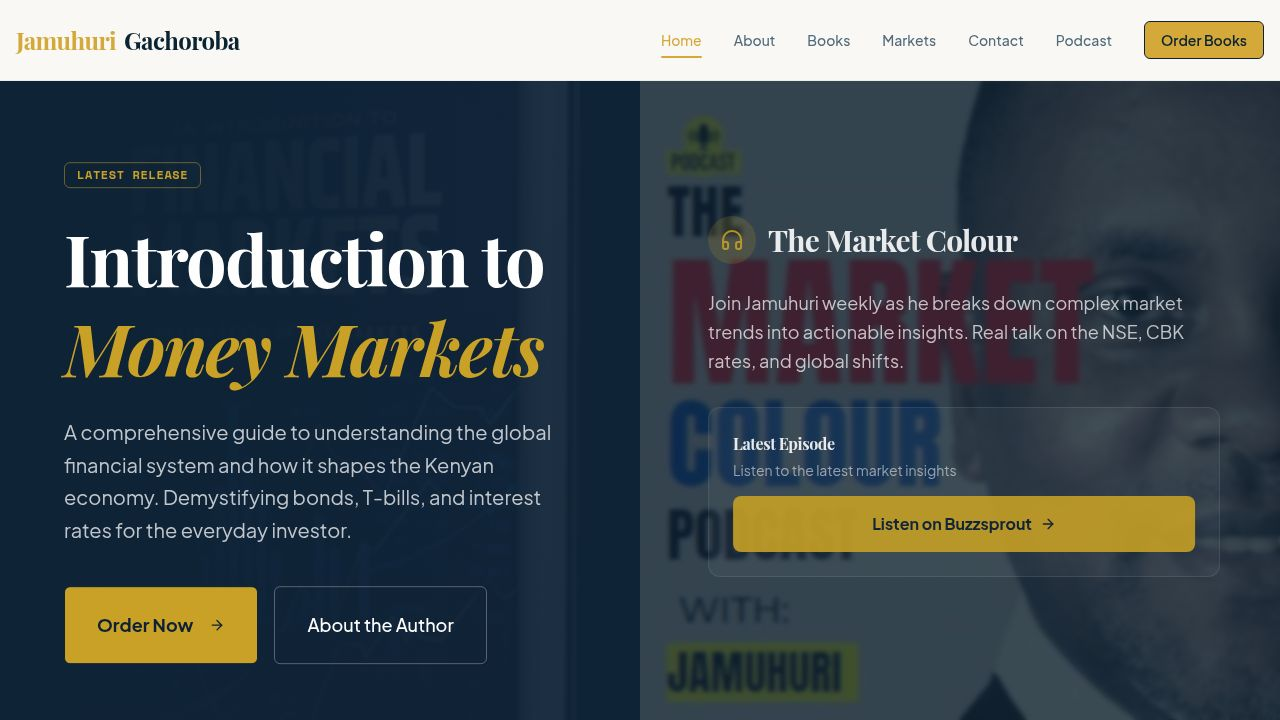
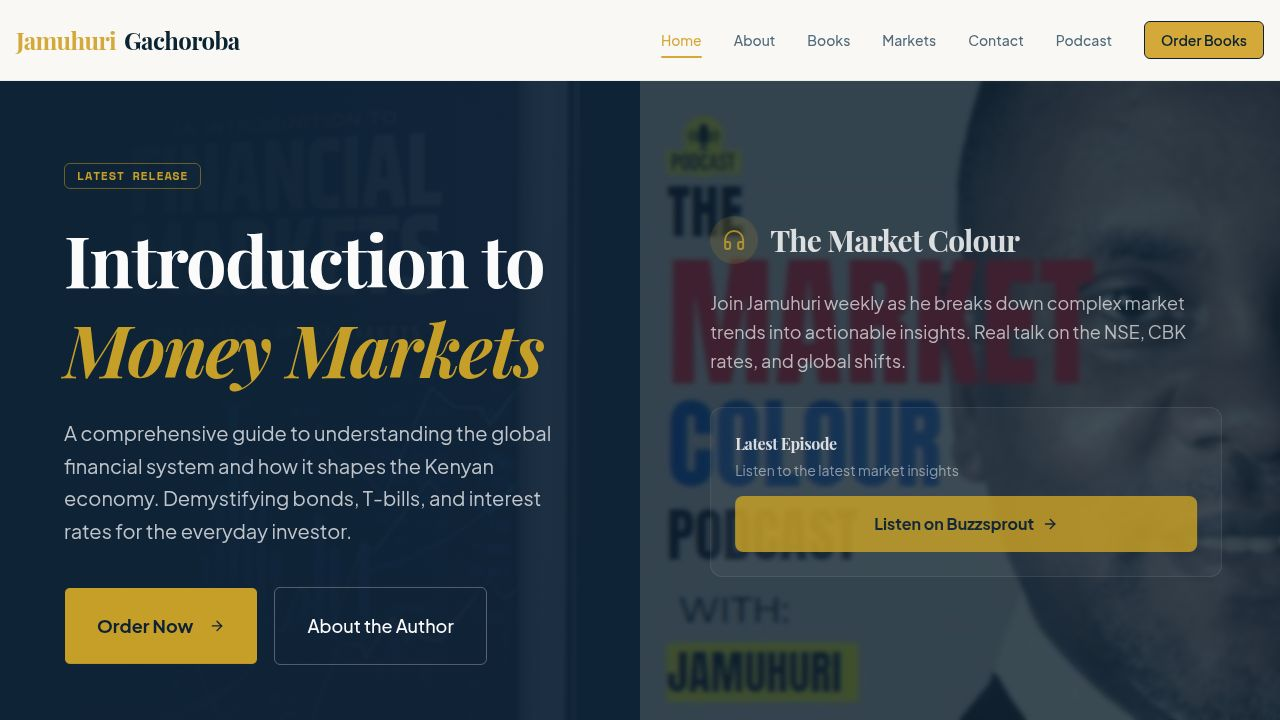
Improve homepage hero visibility and podcast/book display
Refactor homepage hero image opacity and gradient overlay. Update Latest Episodes and Published Works sections to use `animate` instead of `whileInView`, and implement loading skeleton states for both sections.

Replit-Commit-Author: Agent
Replit-Commit-Session-Id: cee25faa-ce3d-4135-8634-a9442910eed3
Replit-Commit-Checkpoint-Type: full_checkpoint
Replit-Commit-Event-Id: 7ee944ad-36cb-4036-9286-5ef0926bcbaf
Replit-Commit-Screenshot-Url: https://storage.googleapis.com/screenshot-production-us-central1/1db0ceea-e35a-4c91-8792-572f1af874b9/cee25faa-ce3d-4135-8634-a9442910eed3/eKkJaRy
Replit-Helium-Checkpoint-Created: true

diff --git a/artifacts/jamuhuri-website/src/pages/home.tsx b/artifacts/jamuhuri-website/src/pages/home.tsx
@@ -20,10 +20,10 @@ export default function Home() {
         {/* Left Side: Book Intro */}
         <div className="flex-1 relative flex flex-col justify-center px-8 md:px-16 py-20 bg-[#0f2337] overflow-hidden">
           {/* Book cover background */}
-          <div className="absolute inset-0 opacity-20 pointer-events-none">
+          <div className="absolute inset-0 opacity-40 pointer-events-none">
             <img src={bookCoverImg} alt="" className="w-full h-full object-cover object-center" />
           </div>
-          <div className="absolute inset-0 bg-gradient-to-r from-[#0f2337] via-[#0f2337]/90 to-[#0f2337]/60" />
+          <div className="absolute inset-0 bg-gradient-to-r from-[#0f2337]/85 via-[#0f2337]/75 to-[#0f2337]/50" />
           <motion.div
             initial={{ opacity: 0, y: 30 }}
             animate={{ opacity: 1, y: 0 }}
@@ -104,41 +104,48 @@ export default function Home() {
           </div>
 
           <div className="grid grid-cols-1 md:grid-cols-3 gap-6 max-w-5xl mx-auto">
-            {podcasts?.map((podcast, i) => (
-              <motion.div
-                key={podcast.id}
-                initial={{ opacity: 0, y: 20 }}
-                whileInView={{ opacity: 1, y: 0 }}
-                viewport={{ once: true }}
-                transition={{ duration: 0.5, delay: i * 0.1 }}
-              >
-                <a
-                  href={podcast.buzzsproutUrl || "https://marketcolourpodcast.buzzsprout.com"}
-                  target="_blank"
-                  rel="noopener noreferrer"
-                  className="block group h-full"
+            {!podcasts ? (
+              [0, 1, 2].map((i) => (
+                <div key={i} className="h-56 bg-white/5 border border-white/10 rounded-xl animate-pulse" />
+              ))
+            ) : podcasts.length === 0 ? (
+              <p className="col-span-3 text-center text-white/50 py-12">No episodes available yet.</p>
+            ) : (
+              podcasts.map((podcast, i) => (
+                <motion.div
+                  key={podcast.id}
+                  initial={{ opacity: 0, y: 20 }}
+                  animate={{ opacity: 1, y: 0 }}
+                  transition={{ duration: 0.5, delay: i * 0.1 }}
                 >
-                  <Card className="h-full bg-white/5 border-white/10 hover:bg-white/10 hover:border-[#c9a227]/40 transition-colors">
-                    <CardContent className="p-6">
-                      <div className="flex items-center gap-2 mb-4 text-xs text-white/50 font-mono">
-                        <span>{new Date(podcast.publishedAt).toLocaleDateString()}</span>
-                        <span>•</span>
-                        <span>{podcast.duration || '45 min'}</span>
-                      </div>
-                      <h3 className="font-serif text-xl font-bold mb-3 text-white group-hover:text-[#c9a227] transition-colors">
-                        {podcast.title}
-                      </h3>
-                      <p className="text-white/60 text-sm line-clamp-3 mb-6">
-                        {podcast.description}
-                      </p>
-                      <div className="flex items-center text-[#c9a227] font-semibold text-sm">
-                        Listen Now <ArrowRight className="ml-2 h-4 w-4 group-hover:translate-x-1 transition-transform" />
-                      </div>
-                    </CardContent>
-                  </Card>
-                </a>
-              </motion.div>
-            ))}
+                  <a
+                    href={podcast.buzzsproutUrl || "https://marketcolourpodcast.buzzsprout.com"}
+                    target="_blank"
+                    rel="noopener noreferrer"
+                    className="block group h-full"
+                  >
+                    <Card className="h-full bg-white/5 border-white/10 hover:bg-white/10 hover:border-[#c9a227]/40 transition-colors">
+                      <CardContent className="p-6">
+                        <div className="flex items-center gap-2 mb-4 text-xs text-white/50 font-mono">
+                          <span>{new Date(podcast.publishedAt).toLocaleDateString()}</span>
+                          <span>•</span>
+                          <span>{podcast.duration || '45 min'}</span>
+                        </div>
+                        <h3 className="font-serif text-xl font-bold mb-3 text-white group-hover:text-[#c9a227] transition-colors">
+                          {podcast.title}
+                        </h3>
+                        <p className="text-white/60 text-sm line-clamp-3 mb-6">
+                          {podcast.description}
+                        </p>
+                        <div className="flex items-center text-[#c9a227] font-semibold text-sm">
+                          Listen Now <ArrowRight className="ml-2 h-4 w-4 group-hover:translate-x-1 transition-transform" />
+                        </div>
+                      </CardContent>
+                    </Card>
+                  </a>
+                </motion.div>
+              ))
+            )}
           </div>
 
           <div className="text-center mt-10">
@@ -171,11 +178,16 @@ export default function Home() {
 
           <div className="grid grid-cols-1 md:grid-cols-2 gap-10 max-w-4xl mx-auto">
             {/* Hard Copy Sample */}
+            {!books ? (
+              <>
+                <div className="h-96 bg-muted rounded-xl animate-pulse" />
+                <div className="h-96 bg-muted rounded-xl animate-pulse" />
+              </>
+            ) : null}
             {books?.[0] && (
               <motion.div
                 initial={{ opacity: 0, y: 20 }}
-                whileInView={{ opacity: 1, y: 0 }}
-                viewport={{ once: true }}
+                animate={{ opacity: 1, y: 0 }}
                 transition={{ duration: 0.5 }}
               >
                 <Card className="h-full flex flex-col overflow-hidden border-2 border-orange-200 hover:border-orange-400 transition-colors shadow-md">
@@ -216,8 +228,7 @@ export default function Home() {
             {books?.[1] && (
               <motion.div
                 initial={{ opacity: 0, y: 20 }}
-                whileInView={{ opacity: 1, y: 0 }}
-                viewport={{ once: true }}
+                animate={{ opacity: 1, y: 0 }}
                 transition={{ duration: 0.5, delay: 0.1 }}
               >
                 <Card className="h-full flex flex-col overflow-hidden border-2 border-blue-200 hover:border-blue-400 transition-colors shadow-md">
